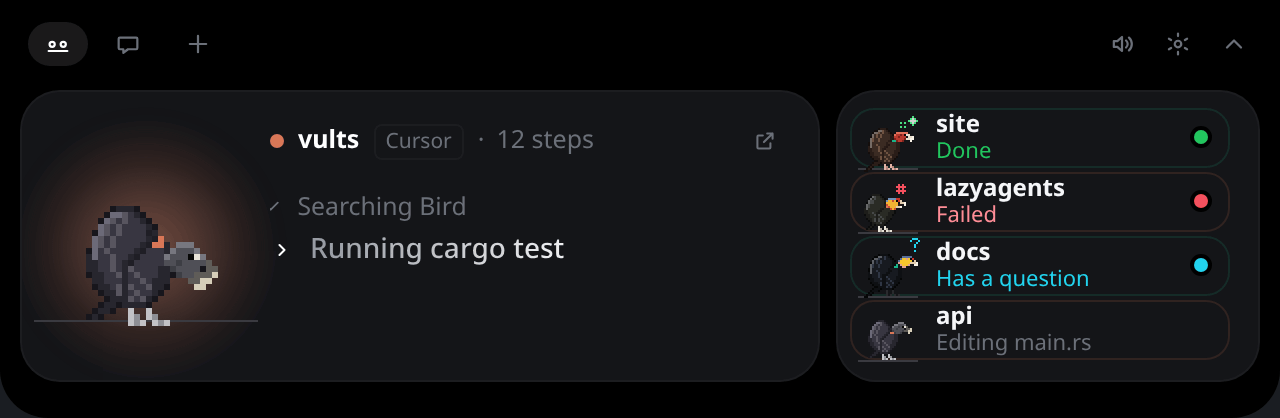
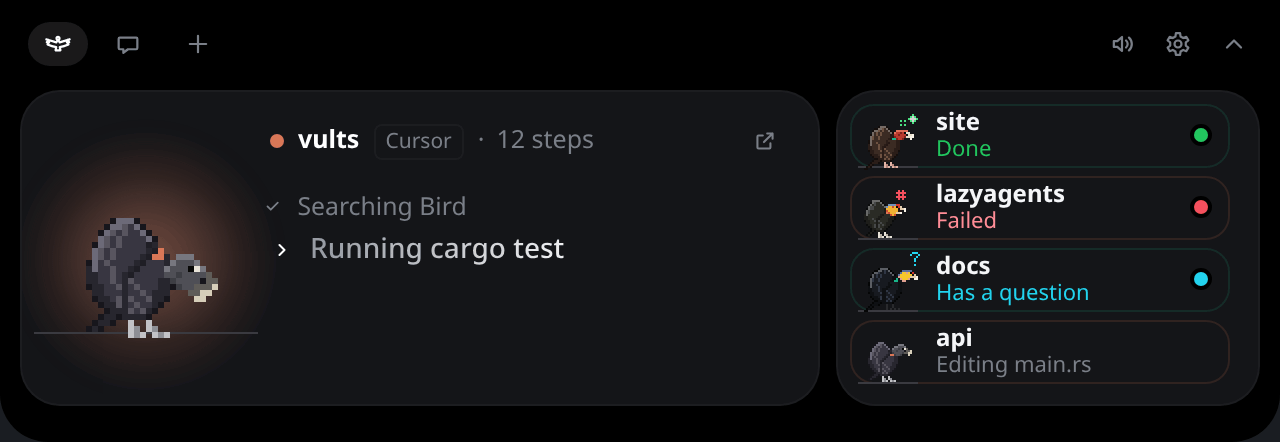
Docs: retake the flock shots, a vult in front instead of Zeca
Since the front session no longer falls to Zeca, the hero showed something the
island does not do. The witch hat goes from the shot (zeca-looks.png shows the
looks), and the alt texts name the species in front.

diff --git a/docs/pt-br/guide/island.md b/docs/pt-br/guide/island.md
@@ -1,5 +1,5 @@
 # A ilha
-<!-- source: 810c1dae6427 -->
+<!-- source: e598b632d949 -->
 
 A ilha fica pendurada na borda de cima da tela. No KDE Plasma, Hyprland, Sway e outros compositores
 com layer-shell, ela fica acima de todas as janelas, como um painel; no GNOME, é uma janela comum
@@ -25,7 +25,7 @@ própria ave; o trabalho sozinho nunca a muda, então as aves mantêm espécie e
 embaralha a cada evento. Toda outra sessão é um **vult**. Uma pequena faixa na base de cada pescoço mostra o agente: laranja para
 Claude Code, verde-azulado para Codex, azul para Gemini CLI.
 
-![O bando do mundo todo: um condor-dos-andes, um abutre-preto, um abutre-real-africano e um grifo ao lado do Zeca com seu chapéu de bruxa](../../assets/island-flock.png)
+![O bando do mundo todo: um grifo-do-himalaia na frente, depois um condor-dos-andes, um abutre-preto, um abutre-real-africano e um grifo](../../assets/island-flock.png)
 
 As aves fazem o que suas sessões fazem: o Zeca abaixa a cabeça para ler, bica o fio enquanto edita,
 puxa o fio enquanto um comando roda, levanta voo e circula quando o agente vai à web, e abre as asas

diff --git a/docs/guide/island.md b/docs/guide/island.md
@@ -21,7 +21,7 @@ alone never moves it, so the birds keep their species and places and the flock d
 with every event. Every other session is a **vult**. A small band at the base of each neck shows the agent: orange for Claude Code, teal
 for Codex, blue for Gemini CLI.
 
-![The flock of the whole world: an Andean condor, a cinereous vulture, a lappet-faced vulture and a griffon vulture beside Zeca in his witch hat](../assets/island-flock.png)
+![The flock of the whole world: a Himalayan griffon in front, then an Andean condor, a cinereous vulture, a lappet-faced vulture and a griffon vulture](../assets/island-flock.png)
 
 The birds do what their sessions do: Zeca lowers his head to read, pecks the wire while editing, tugs
 at it while a command runs, takes off and circles when the agent goes to the web, and spreads his

diff --git a/README.pt-br.md b/README.pt-br.md
@@ -1,4 +1,4 @@
-<!-- source: 9c80eb0e0160 -->
+<!-- source: 2475aca32dc5 -->
 <p align="center">
   <img src="docs/assets/zeca.png" width="128" height="128" alt="Zeca, um urubu-de-cabeça-preta em 8 bits">
 </p>
@@ -21,7 +21,7 @@
 <p align="center"><a href="README.md">English</a> · <b>Português</b></p>
 
 <p align="center">
-  <img src="docs/assets/island-flock.png" width="640" alt="A ilha aberta: o Zeca com o chapéu de bruxa de outubro e a sessão em destaque, e quatro vults de espécies diferentes na lista do bando">
+  <img src="docs/assets/island-flock.png" width="640" alt="A ilha aberta: um grifo-do-himalaia com a sessão em destaque, e quatro vults de espécies diferentes na lista do bando">
 </p>
 
 O Vults é um app de desktop para quem roda vários agentes de código ao mesmo tempo. Ele tem duas

diff --git a/README.md b/README.md
@@ -20,7 +20,7 @@
 <p align="center"><b>English</b> · <a href="README.pt-br.md">Português</a></p> <!-- check-english:allow (language name) -->
 
 <p align="center">
-  <img src="docs/assets/island-flock.png" width="640" alt="The open island: Zeca in his October witch hat with the session in front, and four vults of different species in the flock list">
+  <img src="docs/assets/island-flock.png" width="640" alt="The open island: a Himalayan griffon with the session in front, and four vults of different species in the flock list">
 </p>
 
 Vults is a desktop app for people who run several coding agents at once. It has two parts:
